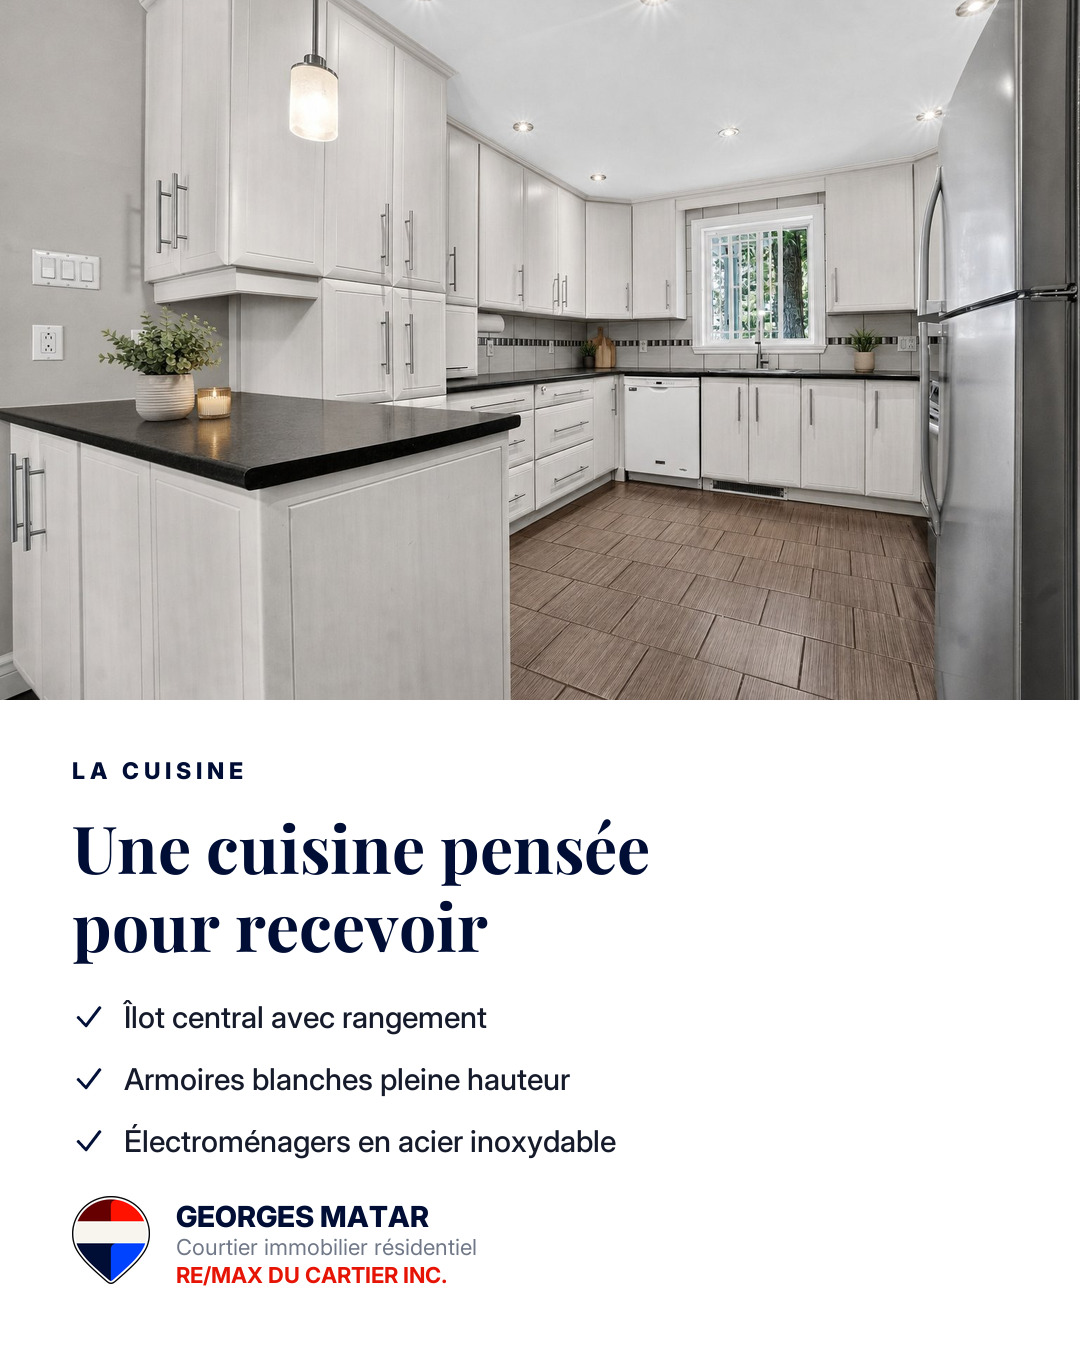
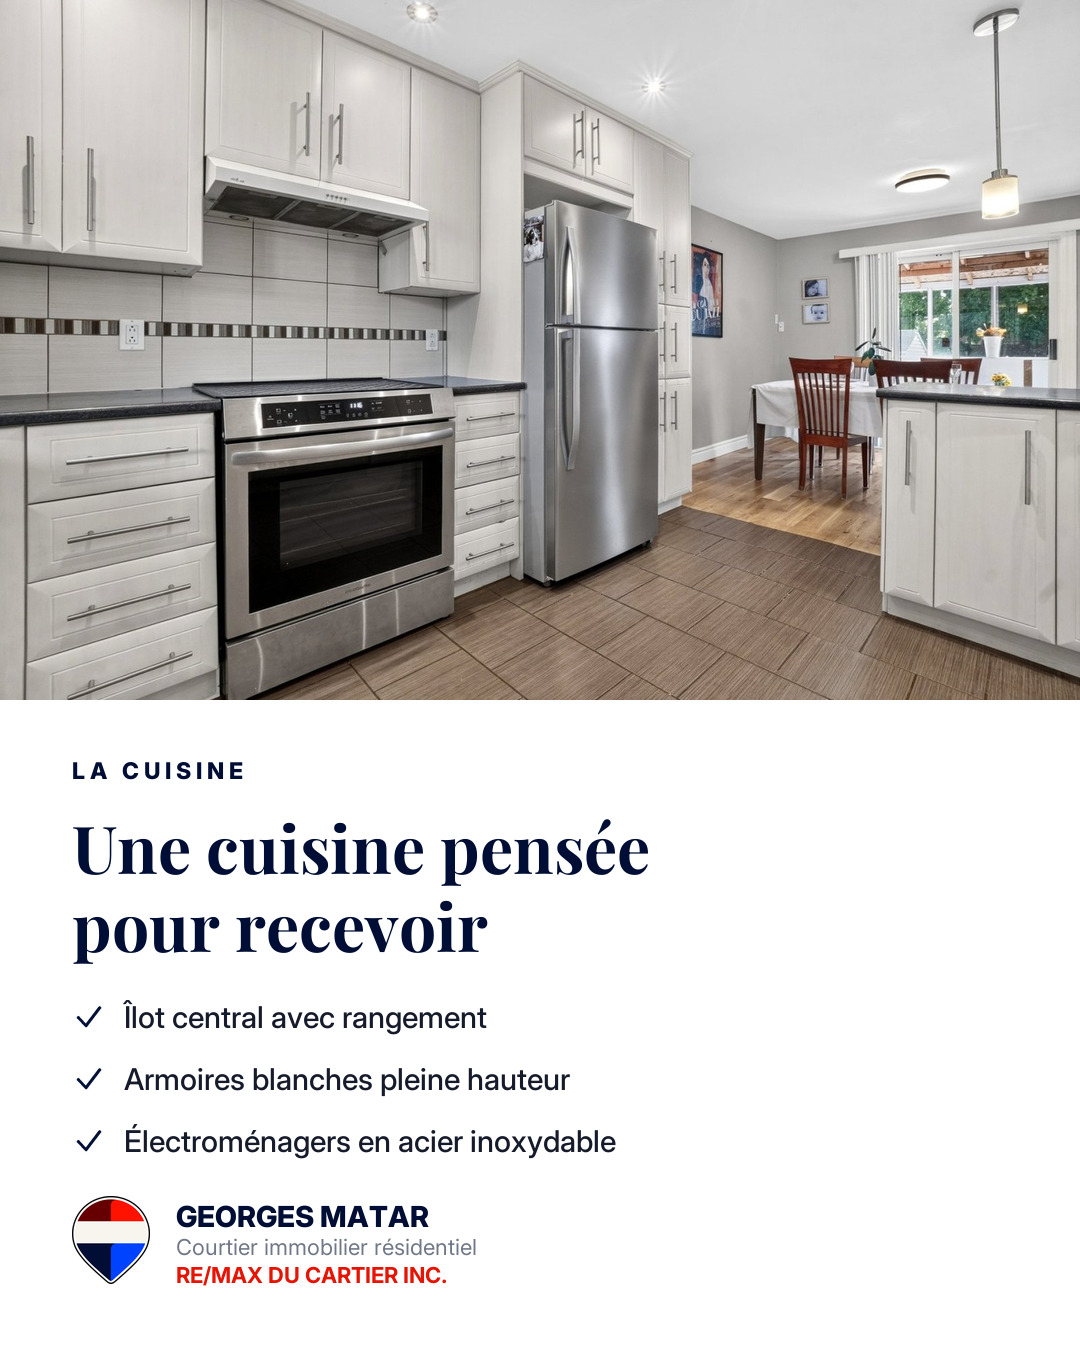
fix: meilleures photos pour les slides cuisine, points forts et emplacement
Cuisine: 10.jpg au lieu de 09.jpg, la vue complete avec cuisiniere et frigo.
Points forts: chambre du sous-sol 17.jpg au lieu de la cour 25.jpg.
Emplacement: salon 05.jpg au lieu de la facade de rue 04.jpg.

diff --git a/carrousel-instagram/generer-carrousel.py b/carrousel-instagram/generer-carrousel.py
@@ -341,7 +341,7 @@ def slide2():
 # ================================================================ SLIDE 3
 def slide3():
     c = base()
-    photo(c, "09.jpg", (0, 0, W, 700), r=0, shad=False)
+    photo(c, "10.jpg", (0, 0, W, 700), r=0, shad=False)
     d = ImageDraw.Draw(c)
 
     y = 756
@@ -365,7 +365,7 @@ def slide3():
 # ================================================================ SLIDE 4
 def slide4():
     c = base()
-    photo(c, "25.jpg", (0, 0, W, 700), r=0, shad=False, fy=0.28)
+    photo(c, "17.jpg", (0, 0, W, 700), r=0, shad=False, fy=0.5)
     d = ImageDraw.Draw(c)
 
     y = 756
@@ -412,7 +412,7 @@ def slide6():
     """Photo de rue professionnelle. Les photos de la pancarte prise au
     telephone restent dans sources/ mais ne vont pas dans le carrousel."""
     c = base()
-    photo(c, "04.jpg", (0, 0, W, 700), r=0, shad=False)
+    photo(c, "05.jpg", (0, 0, W, 700), r=0, shad=False)
     d = ImageDraw.Draw(c)
 
     y = 756
